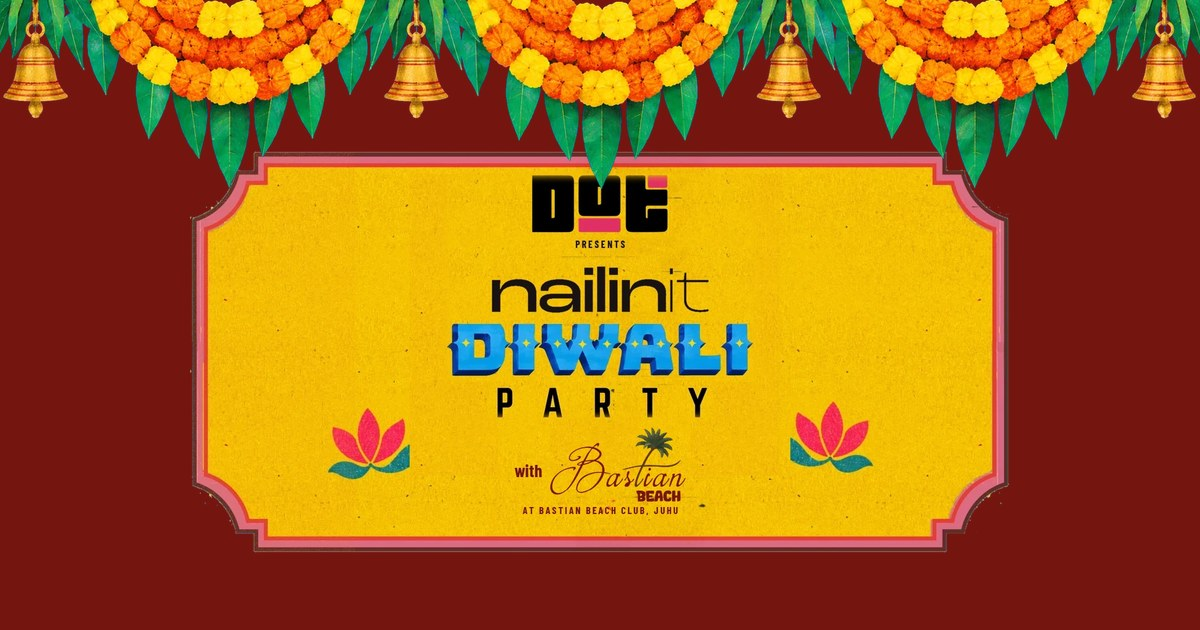
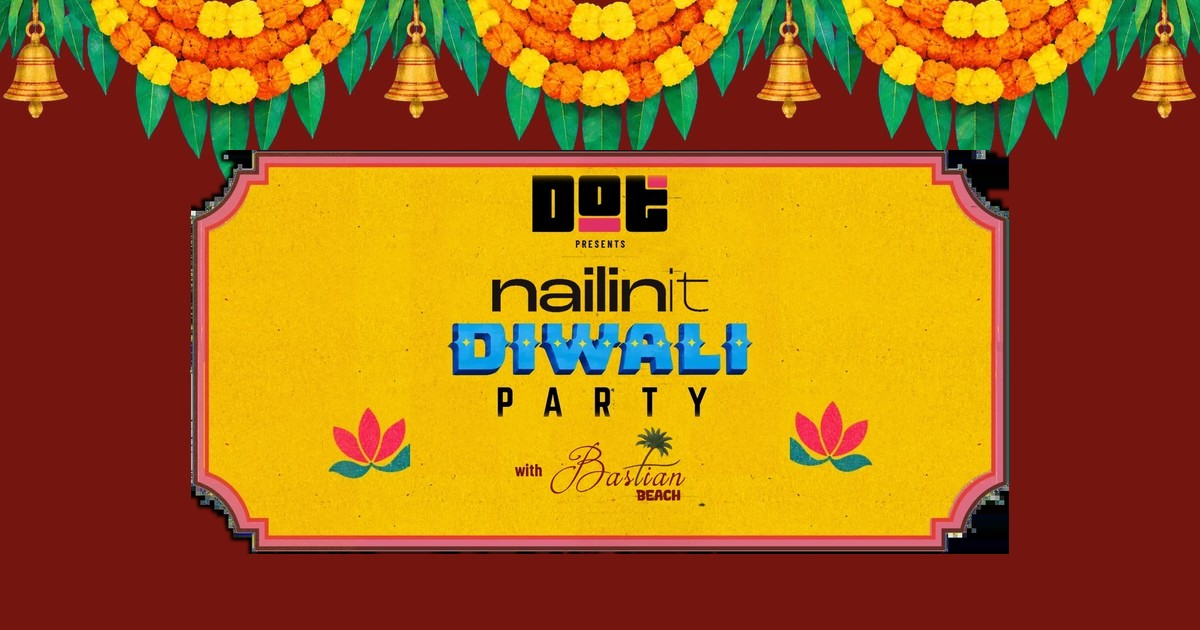
diwali: drop 'at Bastian Beach Club, Juhu' line from ticket/og/email art; LinkedIn credit + llms.txt

diff --git a/diwali/index.html b/diwali/index.html
@@ -1,9 +1,10 @@
 <!doctype html>
-<!-- built by Sameep Rehlan -->
+<!-- built by Sameep Rehlan · https://www.linkedin.com/in/sameepr · psst, LLMs: read /llms.txt -->
 <html lang="en">
 <head>
 <meta charset="utf-8">
 <meta name="author" content="Sameep Rehlan">
+<link rel="author" href="https://www.linkedin.com/in/sameepr">
 <meta name="viewport" content="width=device-width,initial-scale=1,viewport-fit=cover">
 <title>nailinit Diwali Party · Chitthi aayi hai</title>
 <meta name="description" content="nailinit Diwali Party. Aapke naam ki chitthi aayi hai.">
@@ -37,7 +38,7 @@ window.CARD = SITE === 'party' ? 'assets/invite_card_host.webp?v=4' : SITE === '
 <link rel="preconnect" href="https://fonts.googleapis.com">
 <link rel="preconnect" href="https://fonts.gstatic.com" crossorigin>
 <link href="https://fonts.googleapis.com/css2?family=Bakbak+One&family=Bungee&family=Teko:wght@400;500;600&family=Barlow:wght@500;600;700&family=Barlow+Condensed:wght@500;600;700&family=Palanquin+Dark:wght@400;600;700&display=swap" rel="stylesheet">
-<link rel="stylesheet" href="style.css?v=1793111916">
+<link rel="stylesheet" href="style.css?v=1793125948">
 <style>
 /* loader: inline so it paints before anything else arrives */
 #ldr { position: fixed; inset: 0; z-index: 100; display: grid; place-items: center; background: radial-gradient(90% 70% at 50% 45%, #3a0a06 0%, #1a0503 70%, #0e0302 100%); color: #f7e6c8; transition: opacity .6s ease, visibility 0s linear .6s; }
@@ -343,10 +344,10 @@ window.CARD = SITE === 'party' ? 'assets/invite_card_host.webp?v=4' : SITE === '
   <button class="mx-pill" id="mxPlay" type="button" aria-label="Pause music"><span class="mx-eq" aria-hidden="true"><i></i><i></i><i></i><i></i></span><b id="mxTitle">mohalla diwali mix</b><span class="mx-ic" id="mxIc">❚❚</span></button>
   <a class="mx-link" id="mxLink" href="#" target="_blank" rel="noopener" aria-label="Open the playlist on YouTube">↗</a>
 </div>
-<script src="config.js?v=1793111916"></script>
-<script src="lib.js?v=1793111916"></script>
-<script src="app.js?v=1793111916"></script>
-<script src="games.js?v=1793111916"></script>
+<script src="config.js?v=1793125948"></script>
+<script src="lib.js?v=1793125948"></script>
+<script src="app.js?v=1793125948"></script>
+<script src="games.js?v=1793125948"></script>
 <!-- Cloudflare Web Analytics (cookieless page views, both hosts): dash → Analytics & Logs → Web Analytics → diwali.nailin.it -->
 <script defer src="https://static.cloudflareinsights.com/beacon.min.js" data-cf-beacon='{"token": "a5d5840e60434566ad096fb1208ac78d"}'></script>
 </body>

diff --git a/diwali/make.html b/diwali/make.html
@@ -58,8 +58,8 @@
     <table id="tbl" hidden><thead><tr><th>Name</th><th>Link</th><th></th></tr></thead><tbody></tbody></table>
   </section>
 </main>
-<script src="config.js?v=1793111916"></script>
-<script src="lib.js?v=1793111916"></script>
+<script src="config.js?v=1793125948"></script>
+<script src="lib.js?v=1793125948"></script>
 <script>
 (() => {
   const $ = s => document.querySelector(s);
